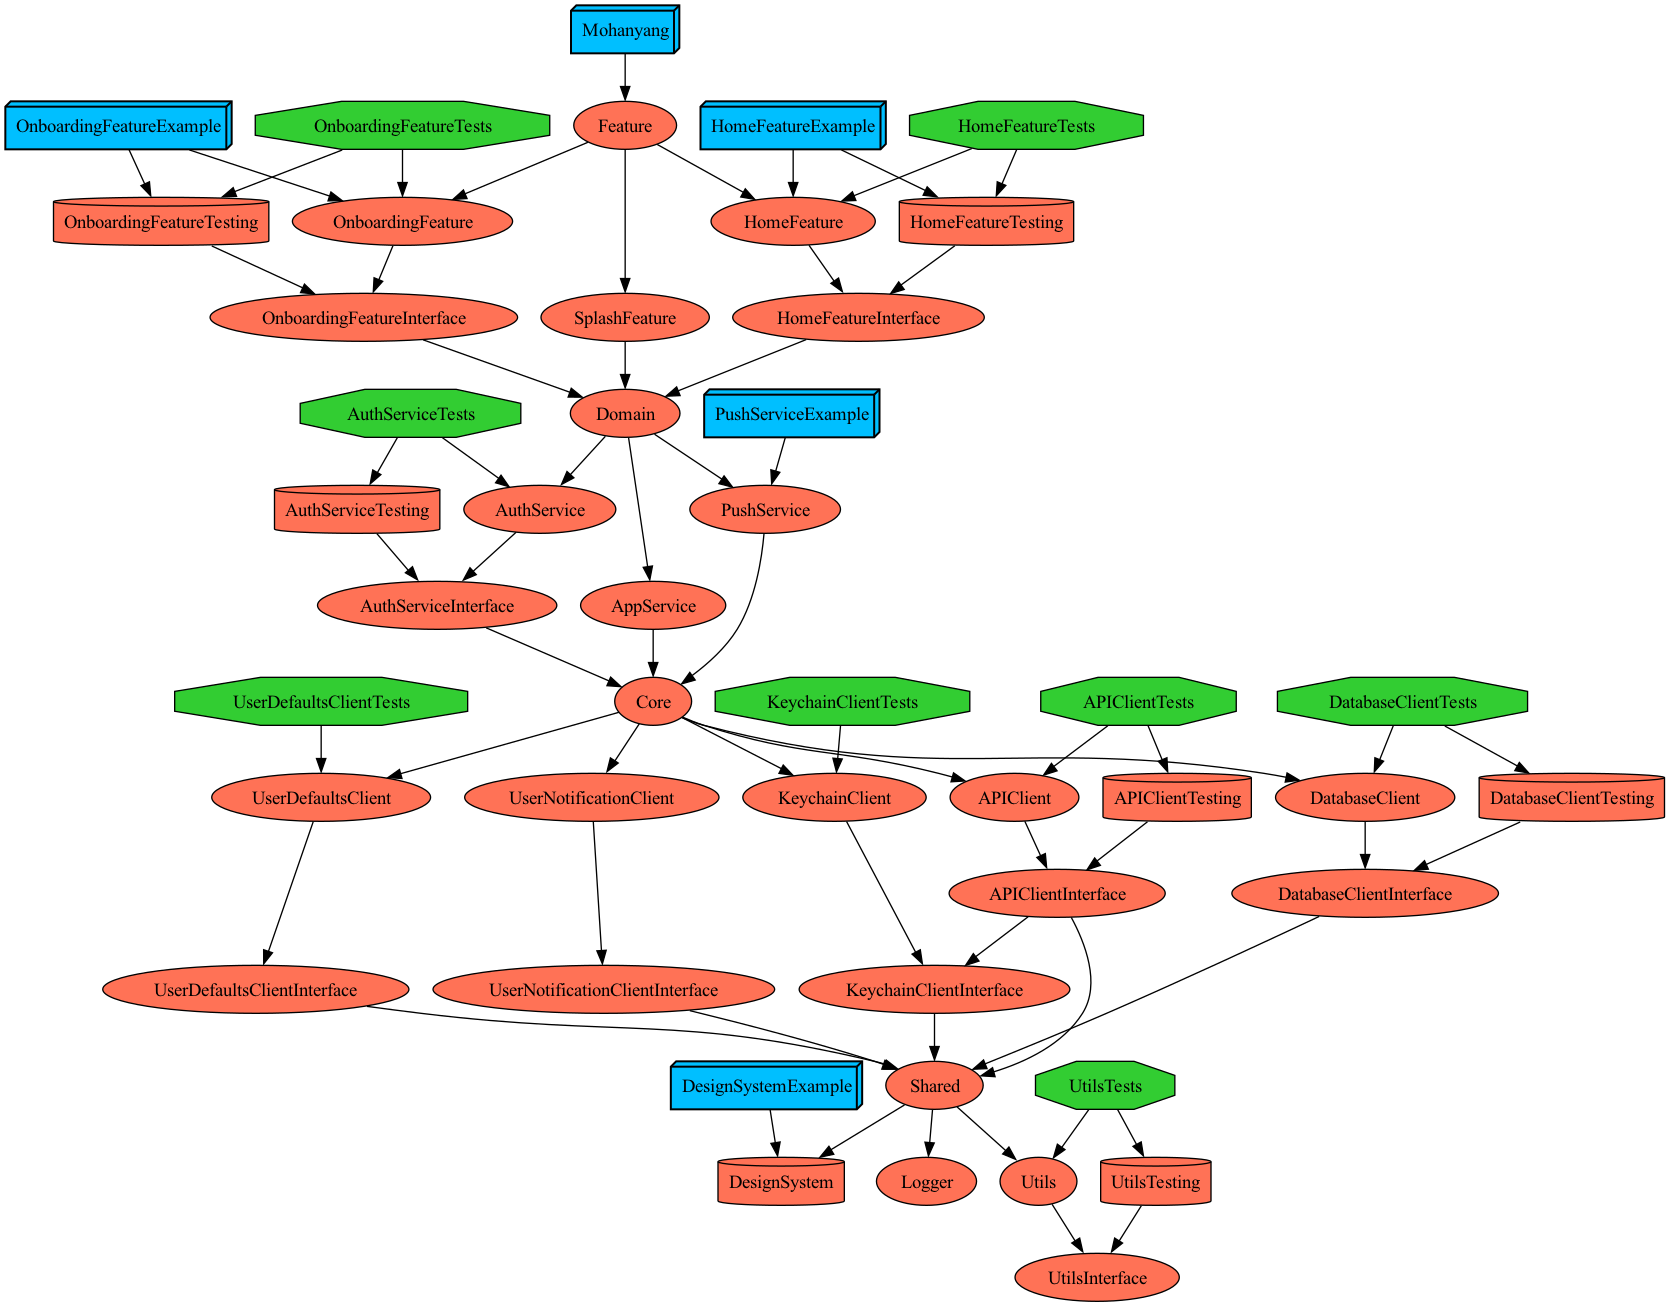
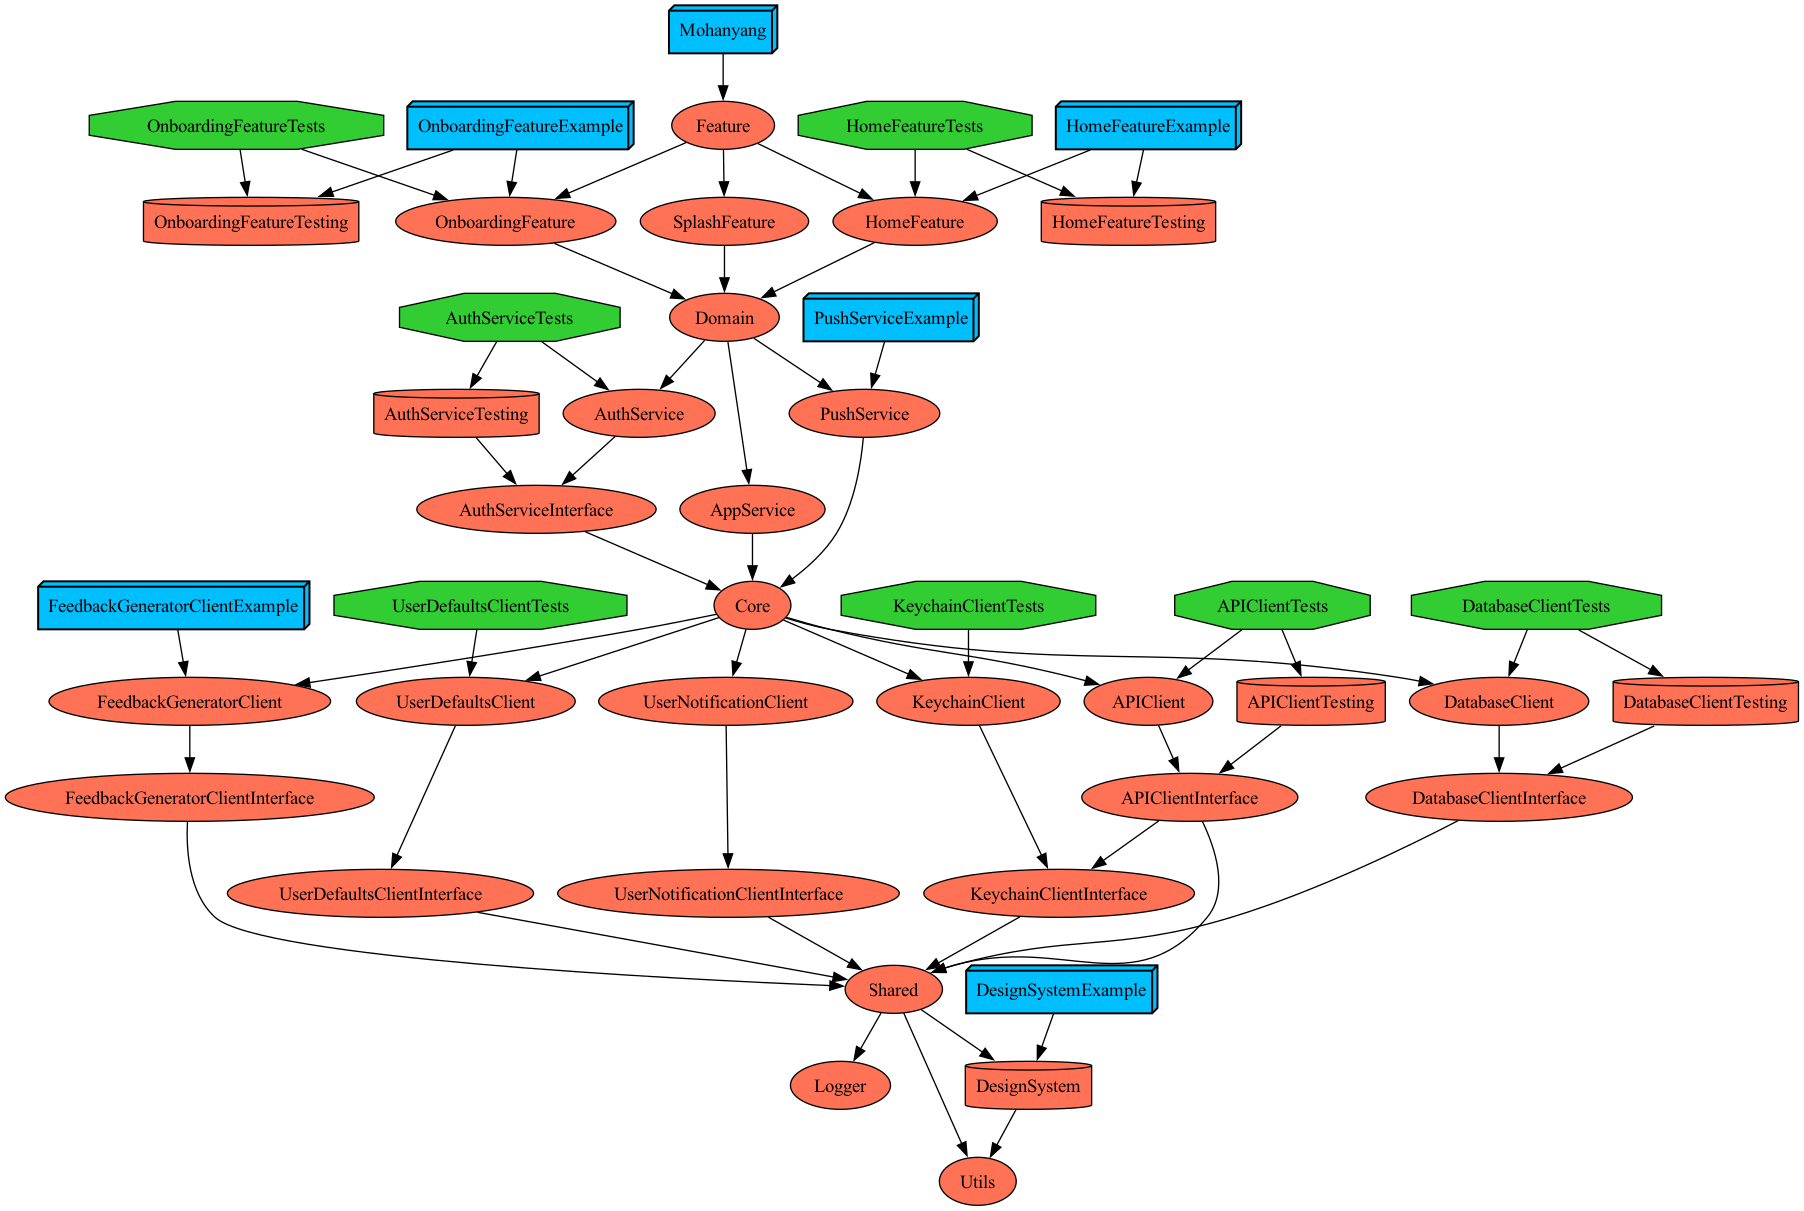
[CAT-191] 서비스 가이드 기능 (#28)

Changed region(s): [[0.0, 0.0, 1.0, 1.0]]

diff --git a/Projects/Feature/HomeFeature/Sources/Home/HomeCore.swift b/Projects/Feature/HomeFeature/Sources/Home/HomeCore.swift
@@ -9,7 +9,7 @@
 import UserNotifications
 
 import PushService
-import UserNotificationClientInterface
+import UserDefaultsClientInterface
 
 import ComposableArchitecture
 
@@ -28,7 +28,7 @@ public struct HomeCore {
   }
   
   public enum Action {
-    case onAppear
+    case onLoad
     case setHomeCatTooltip(HomeCatDialogueTooltip?)
     case setHomeCategoryGuideTooltip(HomeCategoryGuideTooltip?)
     case setHomeTimeGuideTooltip(HomeTimeGuideTooltip?)
@@ -48,7 +48,8 @@ public struct HomeCore {
     case guide
   }
   
-  @Dependency(UserNotificationClient.self) var userNotificationClient
+  @Dependency(UserDefaultsClient.self) var userDefaultsClient
+  let isHomeGuideCompletedKey = "mohanyang_userdefaults_isHomeGuideCompleted"
   
   public init() {}
   
@@ -64,17 +65,24 @@ public struct HomeCore {
   
   private func core(_ state: inout State, _ action: Action) -> EffectOf<Self> {
     switch action {
-    case .onAppear:
-      state.homeCatTooltip = .init(title: "오랜만이다냥")
-      state.homeCategoryGuideTooltip = .init()
-      return .none
+    case .onLoad:
+      return .run { send in
+        await send(.setHomeCatTooltip(nil))
+        if self.userDefaultsClient.boolForKey(isHomeGuideCompletedKey) == false {
+          await self.userDefaultsClient.setBool(true, key: isHomeGuideCompletedKey)
+          await send(.setHomeCategoryGuideTooltip(HomeCategoryGuideTooltip()))
+        }
+      }
       
-    case let .setHomeCatTooltip(tooltip):
+    case .setHomeCatTooltip:
+      state.homeCatTooltip = .init(title: "오랜만이다냥") // TODO: - 문구 랜덤변경하기
       return .none
       
     case let .setHomeCategoryGuideTooltip(tooltip):
       state.homeCategoryGuideTooltip = tooltip
-      state.homeTimeGuideTooltip = .init()
+      if tooltip == nil {
+        state.homeTimeGuideTooltip = .init()
+      }
       return .none
       
     case let .setHomeTimeGuideTooltip(tooltip):

diff --git a/Projects/Shared/Utils/Sources/Extension/SwiftUI/View+Onload.swift b/Projects/Shared/Utils/Sources/Extension/SwiftUI/View+Onload.swift
@@ -1,0 +1,33 @@
+//
+//  View+Extension.swift
+//  Utils
+//
+//  Created by devMinseok on 8/16/24.
+//  Copyright © 2024 PomoNyang. All rights reserved.
+//
+
+import SwiftUI
+
+extension View {
+  public func onLoad(perform action: (() -> Void)? = nil) -> some View {
+    modifier(ViewDidLoadModifier(perform: action))
+  }
+}
+
+private struct ViewDidLoadModifier: ViewModifier {
+  @State private var didLoad = false
+  private let action: (() -> Void)?
+  
+  init(perform action: (() -> Void)? = nil) {
+    self.action = action
+  }
+  
+  func body(content: Content) -> some View {
+    content.onAppear {
+      if didLoad == false {
+        didLoad = true
+        action?()
+      }
+    }
+  }
+}

diff --git a/Projects/Shared/DesignSystem/Sources/Helper/Triangle.swift b/Projects/Shared/DesignSystem/Sources/Helper/Triangle.swift
@@ -8,8 +8,8 @@
 
 import SwiftUI
 
-public struct Triangle: View {
-  public enum Direction: Double {
+struct Triangle: View {
+  enum Direction: Double {
     case down = 180
     case left = -90
     case up = 0
@@ -19,12 +19,12 @@ public struct Triangle: View {
   private let direction: Direction
   private let color: Color
   
-  public init(direction: Direction, color: Color) {
+  init(direction: Direction, color: Color) {
     self.direction = direction
     self.color = color
   }
   
-  public var body: some View {
+  var body: some View {
     TriangleShape()
       .fill(color)
       .rotationEffect(Angle.degrees(direction.rawValue))

diff --git a/Projects/Shared/DesignSystem/Sources/Helper/ExcludeRoundedRectMask.swift b/Projects/Shared/DesignSystem/Sources/Helper/ExcludeRoundedRectMask.swift
@@ -8,11 +8,11 @@
 
 import SwiftUI
 
-public struct ExcludeRoundedRectMask: View {
+struct ExcludeRoundedRectMask: View {
   let excludedRect: CGRect
   let cornerRadius: CGFloat
   
-  public init(
+  init(
     excludedRect: CGRect,
     cornerRadius: CGFloat
   ) {
@@ -20,7 +20,7 @@ public struct ExcludeRoundedRectMask: View {
     self.cornerRadius = cornerRadius
   }
   
-  public var body: some View {
+  var body: some View {
     GeometryReader { geometry in
       let fullRect = geometry.frame(in: .local)
       

diff --git a/Projects/Feature/HomeFeature/Sources/Home/HomeView.swift b/Projects/Feature/HomeFeature/Sources/Home/HomeView.swift
@@ -9,6 +9,7 @@
 import SwiftUI
 
 import DesignSystem
+import Utils
 
 import ComposableArchitecture
 
@@ -122,8 +123,8 @@ public struct HomeView: View {
     ) { store in
       TimeSelectView(store: store)
     }
-    .onAppear {
-      store.send(.onAppear)
+    .onLoad {
+      store.send(.onLoad)
     }
   }
 }

diff --git a/Projects/Shared/DesignSystem/Project.swift b/Projects/Shared/DesignSystem/Project.swift
@@ -22,7 +22,11 @@ let project: Project = .makeTMABasedProject(
     .sources,
     .example
   ],
-  dependencies: [:],
+  dependencies: [
+    .sources: [
+      .dependency(module: Shared.Utils)
+    ]
+  ],
   resourceSynthesizers: [
     .fonts(), // for font
     .assets(), // for .xcassets,

diff --git a/Projects/Shared/Utils/Project.swift b/Projects/Shared/Utils/Project.swift
@@ -8,10 +8,7 @@ let project: Project = .makeTMABasedProject(
   module: Shared.Utils,
   scripts: [],
   targets: [
-    .sources,
-    .interface,
-    .tests,
-    .testing
+    .sources
   ],
   dependencies: [:]
 )

diff --git a/Projects/Shared/Shared/Sources/Exports.swift b/Projects/Shared/Shared/Sources/Exports.swift
@@ -9,7 +9,6 @@
 @_exported import Logger
 @_exported import DesignSystem
 @_exported import Utils
-@_exported import UtilsInterface
 
 @_exported import ThirdParty_SPM
 @_exported import ThirdParty_Firebase

diff --git a/Projects/Feature/HomeFeature/Sources/WheelPicker/WheelPicker.swift b/Projects/Feature/HomeFeature/Sources/WheelPicker/WheelPicker.swift
@@ -9,6 +9,7 @@
 import SwiftUI
 
 import DesignSystem
+import Utils
 
 struct WheelPicker<D: WheelPickerData>: View {
   @Namespace var backgroundFrameID

diff --git a/Projects/Shared/DesignSystem/Sources/Component/Tooltip/TooltipTarget.swift b/Projects/Shared/DesignSystem/Sources/Component/Tooltip/TooltipTarget.swift
@@ -8,6 +8,8 @@
 
 import SwiftUI
 
+import Utils
+
 struct TooltipTarget: View {
   let identifier: AnyHashable
   
